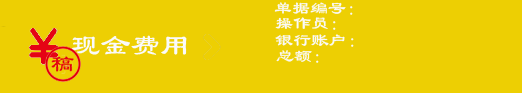
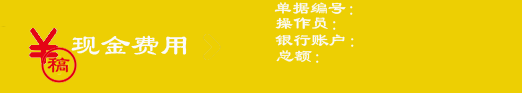
界面

Changed region(s): [[0.0613, 0.4946, 0.1533, 0.9032]]

diff --git a/src/main/java/presentation/managerui/JPBill.java b/src/main/java/presentation/managerui/JPBill.java
@@ -17,6 +17,7 @@ import vo.ReceiptVO;
 import vo.SaleBackSheetVO;
 import vo.SaleSheetVO;
 import vo.SpillsLossBillVO;
+import businesslogic.BillState;
 
 public class JPBill extends JPanel implements MouseListener{
 
@@ -128,22 +129,9 @@ public class JPBill extends JPanel implements MouseListener{
 		//设置面板透明
 		this.setOpaque(false);
 		//背景
-		switch(cb.getBillState()){
-		case DRAFT:
-			bg.setIcon(new ImageIcon("src/image/JPbill/CashPaymentbill/CashPaymentbill10.png"));
-			break;
-		case SUBMITED:
-			bg.setIcon(new ImageIcon("src/image/JPbill/CashPaymentbill/CashPaymentbill20.png"));
-			break;
-		case EXAMINED:
-			bg.setIcon(new ImageIcon("src/image/JPbill/CashPaymentbill/CashPaymentbill30.png"));
-			break;
-		case OVER:
-			bg.setIcon(new ImageIcon("src/image/JPbill/CashPaymentbill/CashPaymentbill40.png"));
-			break;
-		}
+		setBillBg(10,cb.getBillState(),0);
 		bg.setBounds(0, 0, 522, 93);
-		bg.addMouseListener(this);
+		bg.addMouseListener(new MouseListenerOfBill(10,cb.getBillState()));
 		//向右
 		right.setIcon(new ImageIcon("src/image/right.png"));
 		right.setBounds(221, 26, 40, 40);
@@ -156,6 +144,46 @@ public class JPBill extends JPanel implements MouseListener{
 		this.add(right,0);
 		this.add(left,1);
 		this.add(bg,2);
+	}
+	/*根据条件生成地址给单据上背景*/
+	public void setBillBg(int BillStyle,BillState state,int num){
+		String s1="";
+		String s2="";
+		switch(BillStyle){
+		case 1:
+			break;
+		case 2:
+			break;
+		case 3:
+			break;
+		case 4:
+			break;
+		case 5:
+			break;
+		case 6:
+			break;
+		case 7:
+			break;
+		case 8:
+			break;
+		case 9:
+			break;
+		case 10:s1="CashPaymentbill";
+			break;
+		}
+		switch(state){
+		case DRAFT:s2="1";
+			break;
+		case SUBMITED:s2="2";
+			break;
+		case EXAMINED:s2="3";
+			break;
+		case OVER:s2="4";
+			break;
+		}
+		bg.setIcon(new ImageIcon("src/image/JPbill/"+s1+"/"+s1+s2+String.valueOf(num)+".png"));
+
+		
 	}
 	/*看详细信息*/
 	public void showDetail(){
@@ -289,7 +317,7 @@ public class JPBill extends JPanel implements MouseListener{
 	}
 	public void mousePressed(MouseEvent e) {
 		// TODO Auto-generated method stub
-		choose=!choose;
+		
 	}
 	public void mouseReleased(MouseEvent e) {
 		// TODO Auto-generated method stub
@@ -305,9 +333,11 @@ public class JPBill extends JPanel implements MouseListener{
 	}
 	public class MouseListenerOfBill implements MouseListener{
 
-		private int num;
-		public MouseListenerOfBill(int N){
+		private int num;//单据类型对应数字
+		private BillState state;//单据状态
+		public MouseListenerOfBill(int N,BillState st){
 			num=N;
+			state=st;
 		}
 		public void mouseClicked(MouseEvent e) {
 			// TODO Auto-generated method stub
@@ -316,6 +346,13 @@ public class JPBill extends JPanel implements MouseListener{
 
 		public void mousePressed(MouseEvent e) {
 			// TODO Auto-generated method stub
+			choose=!choose;//选中与取消选中
+			if(choose){
+				setBillBg(num,state,3);
+			}
+			else{
+				setBillBg(num,state,1);
+			}
 			
 		}
 
@@ -326,12 +363,22 @@ public class JPBill extends JPanel implements MouseListener{
 
 		public void mouseEntered(MouseEvent e) {
 			// TODO Auto-generated method stub
-			
+			if(choose){
+				setBillBg(num,state,3);
+			}
+			else{
+				setBillBg(num,state,1);
+			}
 		}
 
 		public void mouseExited(MouseEvent e) {
 			// TODO Auto-generated method stub
-			
+			if(choose){
+				setBillBg(num,state,2);
+			}
+			else{
+				setBillBg(num,state,0);
+			}
 		}
 		
 	}
